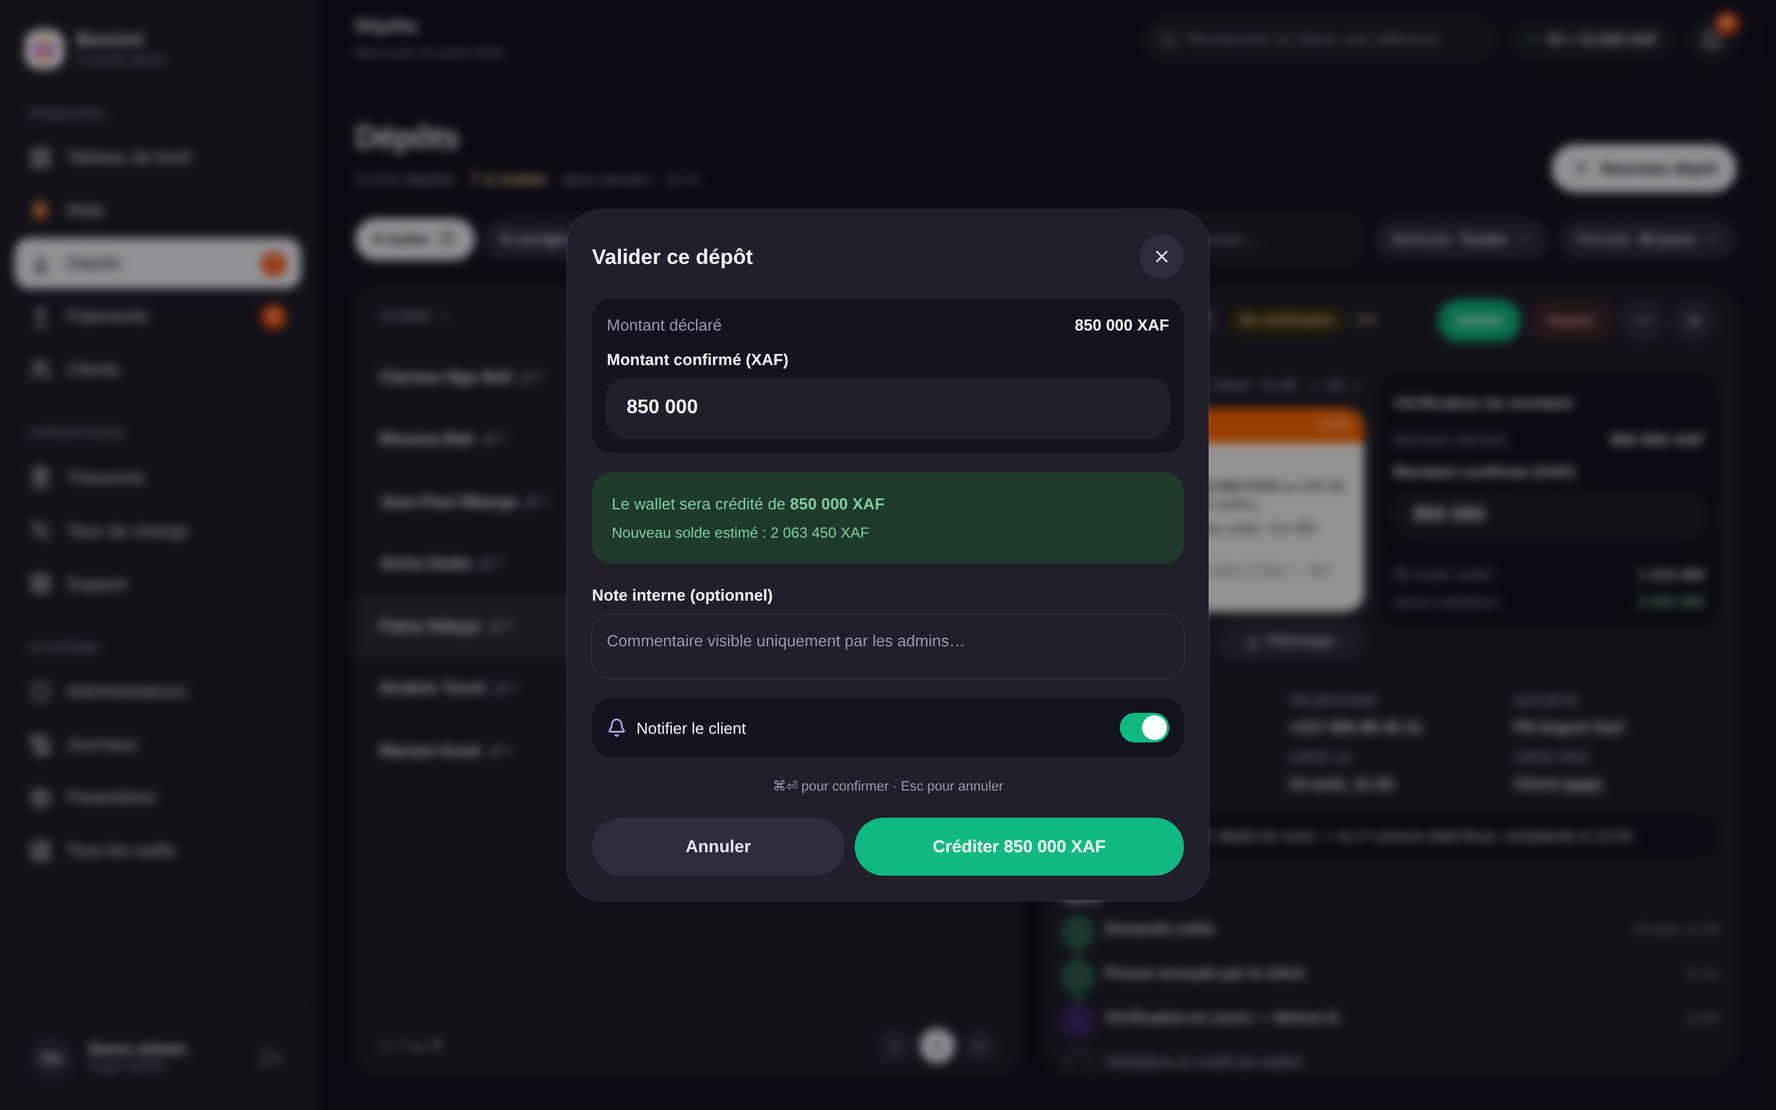
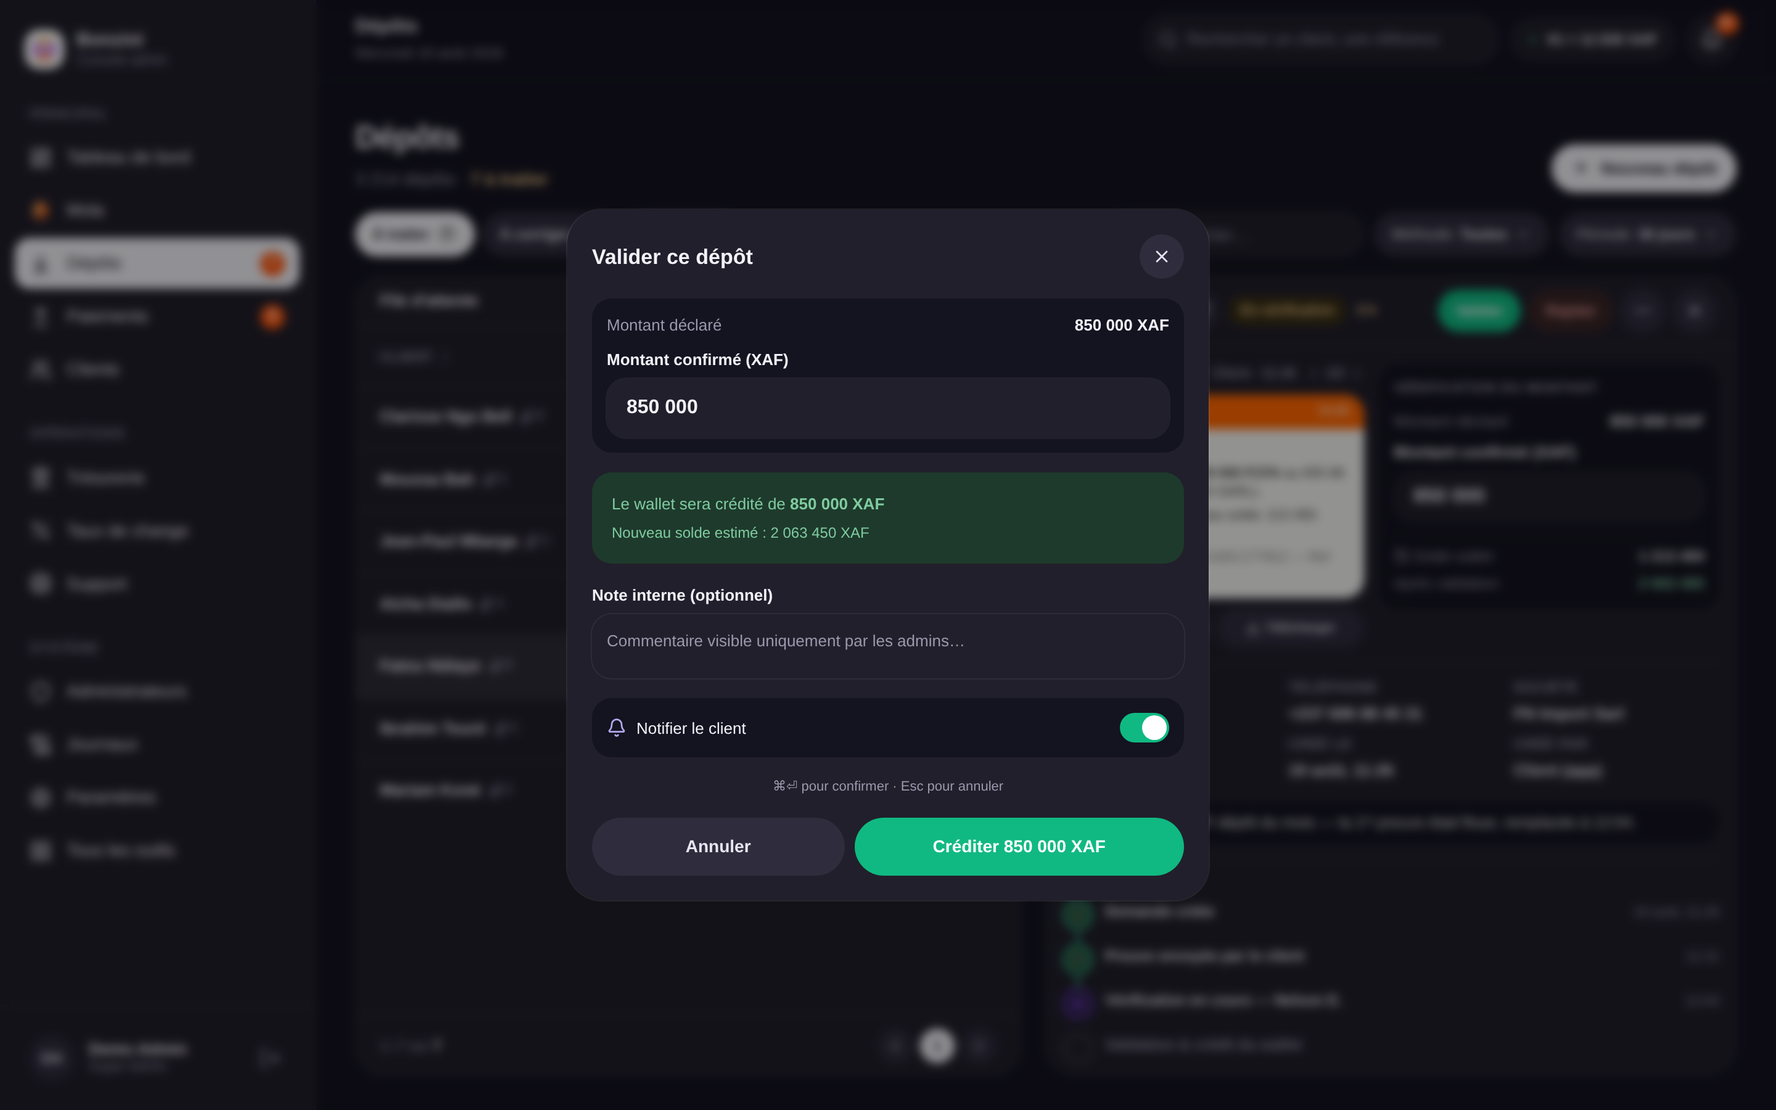
Remove drop shadows app-wide; enforce structure rules in redesign mockups
Founder decision: the diffuse shadow under every surface read as disorganised.
- SURFACE.shadow token now emits a hairline ring (flat surfaces, light+dark)
  — flips every kit consumer at once
- hardcoded shadows removed from desktop chrome (sidebar, menus,
  MasterDetailLayout), kit BottomSheet, FABs, toggles, login card, calendar
- foundation doc: elevation section replaced by borders-only rule + 5
  structure rules (one toolbar height, one card anatomy with header band,
  one section-label style, one spacing rhythm, one primary per surface)
- mockups V3: card header bands on tables, unified uppercase section labels,
  36px toolbar line, ring-delimited panels and dialogs

Claude-Session: https://claude.ai/code/session_019kCQrbrB6qBu75nMSyyPWR

diff --git a/src/__screenshot__/adminRedesign/deposits.tsx b/src/__screenshot__/adminRedesign/deposits.tsx
@@ -46,6 +46,8 @@ import {
   Chip,
   DropChip,
   SearchField,
+  CardHeader,
+  SecLabel,
   Th,
   Td,
   PaginationBar,
@@ -112,6 +114,10 @@ function DepositsTable({ compact, view = 'queue' }: { compact?: boolean; view?: 
   const rows = view === 'all' ? ALL : QUEUE;
   return (
     <Card className="flex min-h-0 flex-1 flex-col overflow-hidden p-0">
+      <CardHeader
+        title={view === 'all' ? 'Tous les dépôts' : "File d'attente"}
+        meta={view === 'all' ? 'Triés du plus récent au plus ancien' : 'Triée du plus ancien au plus récent'}
+      />
       <div className="min-h-0 flex-1 overflow-auto">
         <table className="w-full text-left">
           <thead className={cn('sticky top-0 z-10', SURFACE.card)}>
@@ -219,7 +225,7 @@ function WorkbenchTop({ compact, view = 'queue' }: { compact?: boolean; view?: '
         <div>
           <h2 className={cn('text-[26px] font-extrabold tracking-tight', TEXT.strong)}>Dépôts</h2>
           <p className={cn('mt-1 text-[14px]', TEXT.muted)}>
-            3 214 dépôts · <span className="font-bold text-[#B47A17] dark:text-[#E7C083]">7 à traiter</span> · plus ancien : 11 h
+            3 214 dépôts · <span className="font-bold text-[#B47A17] dark:text-[#E7C083]">7 à traiter</span>
           </p>
         </div>
         <button type="button" className={cn('inline-flex items-center gap-2 px-4 py-2.5 text-[13px] font-bold', PRIMARY_PILL)}>
@@ -302,7 +308,7 @@ export function DepositPanel() {
       className={cn(
         'flex w-[560px] shrink-0 flex-col overflow-hidden rounded-[24px]',
         SURFACE.card,
-        'shadow-[0_8px_30px_-12px_rgba(46,32,92,0.22)] ring-1 ring-black/[0.05] dark:shadow-none dark:ring-white/[0.06]',
+        'ring-1 ring-black/[0.06] dark:ring-white/[0.06]',
       )}
     >
       {/* En-tête épinglé : identité + LE verdict */}
@@ -322,12 +328,16 @@ export function DepositPanel() {
         {/* Zone de verdict : la preuve à côté des montants qu'elle doit prouver */}
         <div className="grid grid-cols-[244px_1fr] items-start gap-3">
           <div>
-            <div className="mb-2 flex items-center justify-between">
-              <span className={cn('text-[13px] font-bold', TEXT.strong)}>Preuves (2)</span>
-              <span className={cn('inline-flex items-center gap-1 text-[11px] font-semibold', TEXT.muted)}>
-                Client · 11:26 <ChevronLeft className="ml-1 h-3 w-3" /> 1/2 <ChevronRight className="h-3 w-3" />
-              </span>
-            </div>
+            <SecLabel
+              className="mb-2"
+              right={
+                <span className={cn('inline-flex items-center gap-1 text-[11px] font-semibold', TEXT.muted)}>
+                  Client · 11:26 <ChevronLeft className="ml-1 h-3 w-3" /> 1/2 <ChevronRight className="h-3 w-3" />
+                </span>
+              }
+            >
+              Preuves · 2
+            </SecLabel>
             <FakeProofSms amount="850 000" reference="BZ-DP-2026-0847" />
             <div className="mt-2 flex gap-1.5">
               <button type="button" className={cn('flex h-8 flex-1 items-center justify-center gap-1 rounded-lg text-[10px] font-semibold', SOFT_PILL)}>
@@ -340,7 +350,7 @@ export function DepositPanel() {
           </div>
 
           <div className={cn('rounded-2xl p-3', SURFACE.canvas)}>
-            <span className={cn('text-[13px] font-bold', TEXT.strong)}>Vérification du montant</span>
+            <SecLabel>Vérification du montant</SecLabel>
             <div className="mt-2 flex items-center justify-between text-[13px]">
               <span className={TEXT.muted}>Montant déclaré</span>
               <span className={cn('font-semibold tabular-nums', TEXT.strong)}>850 000 XAF</span>
@@ -381,7 +391,7 @@ export function DepositPanel() {
 
         {/* Suivi — ouvert, plus caché derrière un clic */}
         <div className="mt-3 border-t border-black/[0.06] pt-2.5 dark:border-white/[0.06]">
-          <span className={cn('mb-1.5 block text-[13px] font-bold', TEXT.strong)}>Suivi</span>
+          <SecLabel className="mb-1.5">Suivi</SecLabel>
           <TimelineStep state="done" label="Demande créée" meta="19 août, 11:26" />
           <TimelineStep state="done" label="Preuve envoyée par le client" meta="11:31" />
           <TimelineStep state="current" label="Vérification en cours — Nelson E." meta="12:04" />
@@ -575,10 +585,7 @@ export function DdCreate() {
           {/* Rail : coordonnées à dicter + récap + CTA */}
           <div className="space-y-4">
             <Card>
-              <div className="flex items-center justify-between">
-                <span className={cn('text-[13px] font-bold', TEXT.strong)}>Coordonnées à communiquer</span>
-                <MIcon family="ORANGE_MONEY" size={20} />
-              </div>
+              <SecLabel right={<MIcon family="ORANGE_MONEY" size={20} />}>Coordonnées à communiquer</SecLabel>
               <div className="mt-3 space-y-2">
                 <div className={cn('rounded-2xl p-3', SURFACE.canvas)}>
                   <div className={cn('text-[11px]', TEXT.muted)}>Code marchand</div>
@@ -605,7 +612,7 @@ export function DdCreate() {
             </Card>
 
             <Card>
-              <span className={cn('text-[13px] font-bold', TEXT.strong)}>Récapitulatif</span>
+              <SecLabel>Récapitulatif</SecLabel>
               <div className="mt-2.5 space-y-2 text-[13px]">
                 <div className="flex justify-between"><span className={TEXT.muted}>Client</span><span className={cn('font-semibold', TEXT.strong)}>Fatou Ndiaye</span></div>
                 <div className="flex justify-between"><span className={TEXT.muted}>Montant</span><span className={cn('font-bold tabular-nums', TEXT.strong)}>850 000 XAF</span></div>

diff --git a/src/__screenshot__/adminRedesign/payments.tsx b/src/__screenshot__/adminRedesign/payments.tsx
@@ -45,6 +45,8 @@ import {
   Chip,
   DropChip,
   SearchField,
+  CardHeader,
+  SecLabel,
   Th,
   Td,
   PaginationBar,
@@ -106,6 +108,10 @@ function PaymentsTable({ compact, view = 'queue' }: { compact?: boolean; view?: 
   const rows = view === 'all' ? ALL : QUEUE;
   return (
     <Card className="flex min-h-0 flex-1 flex-col overflow-hidden p-0">
+      <CardHeader
+        title={view === 'all' ? 'Tous les paiements' : "File d'attente"}
+        meta={view === 'all' ? 'Triés du plus récent au plus ancien' : 'Triée du plus ancien au plus récent'}
+      />
       <div className="min-h-0 flex-1 overflow-auto">
         <table className="w-full text-left">
           <thead className={cn('sticky top-0 z-10', SURFACE.card)}>
@@ -326,7 +332,7 @@ export function PaymentPanel() {
       className={cn(
         'flex w-[560px] shrink-0 flex-col overflow-hidden rounded-[24px]',
         SURFACE.card,
-        'shadow-[0_8px_30px_-12px_rgba(46,32,92,0.22)] ring-1 ring-black/[0.05] dark:shadow-none dark:ring-white/[0.06]',
+        'ring-1 ring-black/[0.06] dark:ring-white/[0.06]',
       )}
     >
       <div className="flex items-center gap-2 border-b border-black/[0.06] px-4 py-2.5 dark:border-white/[0.06]">
@@ -368,12 +374,12 @@ export function PaymentPanel() {
         {/* Zone de verdict : coordonnées à transcrire, au caractère près */}
         <div className="mt-3 grid grid-cols-[1fr_112px] items-start gap-3.5">
           <div>
-            <div className="mb-2 flex items-center justify-between">
-              <span className={cn('text-[13px] font-bold', TEXT.strong)}>
-                Bénéficiaire · <span style={{ color: '#1677FF' }}>Alipay</span>
-              </span>
-              <button type="button" className="text-[12px] font-semibold text-[#6B5BD2] dark:text-[#A99BF0]">Modifier</button>
-            </div>
+            <SecLabel
+              className="mb-2"
+              right={<button type="button" className="text-[12px] font-semibold text-[#6B5BD2] dark:text-[#A99BF0]">Modifier</button>}
+            >
+              Bénéficiaire · <span style={{ color: '#1677FF' }}>Alipay</span>
+            </SecLabel>
             <div className="space-y-2">
               <CopyRow k="Nom" v="Zhang Wei 张伟" />
               <CopyRow k="Alipay ID" v="zw88@aliyun.com" mono accent="#1677FF" />
@@ -410,7 +416,7 @@ export function PaymentPanel() {
 
         {/* Suivi */}
         <div className="mt-2.5 border-t border-black/[0.06] pt-2.5 dark:border-white/[0.06]">
-          <span className={cn('mb-1.5 block text-[13px] font-bold', TEXT.strong)}>Suivi</span>
+          <SecLabel className="mb-1.5">Suivi</SecLabel>
           <PTimelineStep state="done" label="Paiement créé — wallet débité" meta="11:41" />
           <PTimelineStep state="done" label="Bénéficiaire complet" meta="11:41" />
           <PTimelineStep state="current" label="Prêt à payer" />
@@ -528,10 +534,9 @@ export function DpCreate() {
 
               <div className="mt-4 grid grid-cols-2 gap-4">
                 <div>
-                  <div className="flex items-center justify-between">
-                    <span className={cn('text-[13px] font-semibold', TEXT.strong)}>Carnet de Fatou · Alipay (3)</span>
-                    <button type="button" className="text-[12px] font-bold" style={{ color: VIOLET }}>+ Nouveau</button>
-                  </div>
+                  <SecLabel right={<button type="button" className="text-[12px] font-bold" style={{ color: VIOLET }}>+ Nouveau</button>}>
+                    Carnet de Fatou · Alipay (3)
+                  </SecLabel>
                   <div className="mt-2 space-y-2">
                     {[
                       { n: 'Zhang Wei 张伟', m: 'zw88@aliyun.com', sel: true },
@@ -578,7 +583,7 @@ export function DpCreate() {
 
           {/* Rail : récap vivant */}
           <Card>
-            <span className={cn('text-[13px] font-bold', TEXT.strong)}>Récapitulatif</span>
+            <SecLabel>Récapitulatif</SecLabel>
             <div className={cn('mt-3 rounded-2xl py-4 text-center', SURFACE.canvas)}>
               <Amount value="¥14 380" size="xl" />
               <div className={cn('mt-1 text-[12px] tabular-nums', TEXT.muted)}>1 250 000 XAF · Alipay</div>

diff --git a/src/__screenshot__/adminRedesign/kit.tsx b/src/__screenshot__/adminRedesign/kit.tsx
@@ -75,12 +75,12 @@ export function Age({ abs, rel, level, relOnly }: { abs: string; rel: string; le
 
 /* ── Puce-filtre à compteur — copie du rendu STATUS_CHIPS des écrans réels ─ */
 
-export function Chip({ label, count, active, onDark }: { label: React.ReactNode; count?: number | string; active?: boolean; onDark?: boolean }) {
+export function Chip({ label, count, active }: { label: React.ReactNode; count?: number | string; active?: boolean }) {
   return (
     <button
       type="button"
       className={cn(
-        'flex items-center gap-1.5 rounded-full px-3.5 py-2 text-[12px] font-semibold transition-colors',
+        'flex h-9 items-center gap-1.5 rounded-full px-3.5 text-[12px] font-semibold transition-colors',
         active ? PRIMARY_PILL : SOFT_PILL,
       )}
     >
@@ -102,7 +102,7 @@ export function Chip({ label, count, active, onDark }: { label: React.ReactNode;
 /** Puce façon menu déroulant (Méthode / Période) — même langage. */
 export function DropChip({ label, value }: { label: string; value: string }) {
   return (
-    <button type="button" className={cn('flex items-center gap-1.5 rounded-full px-3.5 py-2 text-[12px] font-semibold', SOFT_PILL)}>
+    <button type="button" className={cn('flex h-9 items-center gap-1.5 rounded-full px-3.5 text-[12px] font-semibold', SOFT_PILL)}>
       <span className="opacity-70">{label}</span>
       <span className="font-bold">{value}</span>
       <ChevronDown className="h-3.5 w-3.5 opacity-70" />
@@ -115,8 +115,29 @@ export function DropChip({ label, value }: { label: string; value: string }) {
 export function SearchField({ placeholder, className }: { placeholder: string; className?: string }) {
   return (
     <div className={cn('relative', className)}>
-      <Search className={cn('pointer-events-none absolute left-4 top-1/2 z-10 h-4 w-4 -translate-y-1/2', TEXT.muted)} />
-      <TextInput placeholder={placeholder} readOnly className="h-11 pl-10 text-[14px]" />
+      <Search className={cn('pointer-events-none absolute left-3.5 top-1/2 z-10 h-4 w-4 -translate-y-1/2', TEXT.muted)} />
+      <TextInput placeholder={placeholder} readOnly className="h-9 rounded-full pl-9 text-[13px]" />
+    </div>
+  );
+}
+
+/** En-tête de carte — l'anatomie unique de toutes les cartes de contenu :
+ *  titre 13px gras à gauche, méta 12px sourde à droite, liseré dessous. */
+export function CardHeader({ title, meta }: { title: React.ReactNode; meta?: React.ReactNode }) {
+  return (
+    <div className="flex items-center justify-between gap-3 border-b border-black/[0.06] px-5 py-2.5 dark:border-white/[0.06]">
+      <span className={cn('text-[13px] font-bold', TEXT.strong)}>{title}</span>
+      {meta && <span className={cn('text-[12px] tabular-nums', TEXT.muted)}>{meta}</span>}
+    </div>
+  );
+}
+
+/** Étiquette de section — LE style unique des sections de panneau/formulaire. */
+export function SecLabel({ children, right, className }: { children: React.ReactNode; right?: React.ReactNode; className?: string }) {
+  return (
+    <div className={cn('flex items-center justify-between gap-3', className)}>
+      <span className={cn('text-[11px] font-bold uppercase tracking-wider', TEXT.muted)}>{children}</span>
+      {right}
     </div>
   );
 }
@@ -208,7 +229,7 @@ export function Dialog({ title, children, footer, width = 520 }: { title: React.
   return (
     <div className="absolute inset-0 z-[60] flex items-center justify-center bg-black/40 backdrop-blur-sm">
       <div
-        className={cn('overflow-hidden rounded-[28px] p-5', SURFACE.card, 'shadow-[0_24px_60px_-24px_rgba(46,32,92,0.45)] dark:shadow-none dark:ring-1 dark:ring-white/[0.08]')}
+        className={cn('overflow-hidden rounded-[28px] p-5', SURFACE.card, 'ring-1 ring-black/[0.08] dark:ring-white/[0.08]')}
         style={{ width }}
         role="dialog"
         aria-modal="true"

diff --git a/src/desktop/components/layout/DesktopSidebar.tsx b/src/desktop/components/layout/DesktopSidebar.tsx
@@ -33,7 +33,7 @@ export function DesktopSidebar() {
       className={cn(
         'fixed inset-y-0 left-0 z-20 flex w-64 flex-col',
         SURFACE.card,
-        'shadow-[1px_0_0_rgba(46,32,92,0.06)] dark:shadow-none dark:ring-1 dark:ring-white/[0.06]',
+        'border-r border-black/[0.06] dark:border-white/[0.06]',
       )}
     >
       {/* Brand */}
@@ -67,10 +67,7 @@ export function DesktopSidebar() {
                       cn(
                         'mb-0.5 flex items-center gap-3 rounded-xl px-3 py-2.5 text-[14px] font-medium outline-none transition focus-visible:ring-2 focus-visible:ring-inset focus-visible:ring-[#C9C2F0] dark:focus-visible:ring-[#4A4660]',
                         isActive
-                          ? cn(
-                              'bg-[#1C1B22] text-white dark:bg-[#F2F1F7] dark:text-[#1B1A24]',
-                              'shadow-[0_8px_30px_-12px_rgba(46,32,92,0.25)]',
-                            )
+                          ? 'bg-[#1C1B22] text-white dark:bg-[#F2F1F7] dark:text-[#1B1A24]'
                           : cn(TEXT.strong, 'hover:bg-[#EDEAFA]/70 dark:hover:bg-white/[0.06]'),
                       )
                     }

diff --git a/src/mobile/designKit/tokens.ts b/src/mobile/designKit/tokens.ts
@@ -15,8 +15,11 @@ export const SURFACE = {
   canvas: 'bg-[#ECEAF7] dark:bg-[#141320]',
   /** Primary elevated surface. */
   card: 'bg-white dark:bg-[#211F2B]',
-  /** Soft diffuse shadow (replaces hard borders). Dark mode: ring instead. */
-  shadow: 'shadow-[0_8px_30px_-12px_rgba(46,32,92,0.18)] dark:shadow-none dark:ring-1 dark:ring-white/[0.06]',
+  /** Surface delineation: a crisp hairline ring — flat, no drop shadows.
+   *  (Was a soft diffuse shadow; removed app-wide on the founder's decision —
+   *  the diffuse blur under every surface read as disorganised. Borders give
+   *  the same separation with more structure.) */
+  shadow: 'ring-1 ring-black/[0.06] dark:ring-white/[0.06]',
   /** Neutral round holder for icons/initials. */
   holder: 'bg-[#EDEAFA] text-[#2C2740] dark:bg-[#2F2C3D] dark:text-[#E7E5F0]',
 } as const;

diff --git a/src/mobile/screens/payments/MobileNewPayment.tsx b/src/mobile/screens/payments/MobileNewPayment.tsx
@@ -747,7 +747,7 @@ export function MobileNewPayment({ desktop = false }: { desktop?: boolean } = {}
                   style={{ background: useCustomRate ? VIOLET : 'rgba(0,0,0,0.18)' }}
                 >
                   <span
-                    className="absolute top-0.5 h-[22px] w-[22px] rounded-full bg-white shadow-[0_1px_4px_rgba(0,0,0,.18)] transition-all"
+                    className="absolute top-0.5 h-[22px] w-[22px] rounded-full bg-white ring-1 ring-black/[0.10] transition-all"
                     style={{ left: useCustomRate ? 20 : 2 }}
                   />
                 </button>

diff --git a/src/mobile/screens/payments/MobilePaymentsScreen.tsx b/src/mobile/screens/payments/MobilePaymentsScreen.tsx
@@ -251,7 +251,7 @@ export function MobilePaymentsScreen() {
             <button
               onClick={() => navigate('/m/payments/new')}
               aria-label="Nouveau paiement"
-              className="flex h-10 w-10 items-center justify-center rounded-full bg-[#8B5CF6] text-white shadow-[0_6px_16px_-4px_rgba(139,92,246,0.55)] transition active:scale-95"
+              className="flex h-10 w-10 items-center justify-center rounded-full bg-[#8B5CF6] text-white transition active:scale-95"
             >
               <Plus className="h-5 w-5" strokeWidth={2.6} />
             </button>

diff --git a/src/mobile/screens/deposits/MobileDepositsScreenV2.tsx b/src/mobile/screens/deposits/MobileDepositsScreenV2.tsx
@@ -213,7 +213,7 @@ export function MobileDepositsScreenV2() {
           <button
             onClick={() => navigate('/m/deposits/new')}
             aria-label="Nouveau dépôt"
-            className="flex h-10 w-10 items-center justify-center rounded-full bg-[#10B981] text-white shadow-[0_6px_16px_-4px_rgba(16,185,129,0.55)] transition active:scale-95"
+            className="flex h-10 w-10 items-center justify-center rounded-full bg-[#10B981] text-white transition active:scale-95"
           >
             <Plus className="h-5 w-5" strokeWidth={2.6} />
           </button>

diff --git a/src/desktop/components/layout/DesktopNotificationsMenu.tsx b/src/desktop/components/layout/DesktopNotificationsMenu.tsx
@@ -71,7 +71,7 @@ export function DesktopNotificationsMenu() {
             className={cn(
               'absolute right-0 top-full z-50 mt-2 w-[384px] overflow-hidden rounded-[20px]',
               SURFACE.card,
-              'shadow-[0_18px_50px_-12px_rgba(46,32,92,0.35)] ring-1 ring-black/[0.06] dark:ring-white/[0.08]',
+              'ring-1 ring-black/[0.10] dark:ring-white/[0.10]',
             )}
           >
             <header className="flex items-center justify-between gap-2 border-b border-black/[0.05] px-4 py-3 dark:border-white/[0.06]">

diff --git a/src/mobile/screens/assistant/MobileAssistantScreen.tsx b/src/mobile/screens/assistant/MobileAssistantScreen.tsx
@@ -414,7 +414,7 @@ export function MobileAssistantScreen({ desktop = false }: { desktop?: boolean }
       {isEmpty ? (
         <div className="flex flex-col items-center pt-10 text-center">
           <MolaMascot
-            className="h-24 w-24 drop-shadow-[0_10px_22px_rgba(251,87,19,0.28)]"
+            className="h-24 w-24"
             fallback={
               <div className={cn('flex h-16 w-16 items-center justify-center rounded-full text-[#2C2740] dark:text-[#E7E5F0]', CARD, SOFT)}>
                 <Bot className="h-8 w-8" />

diff --git a/src/mobile/components/OperationDateCard.tsx b/src/mobile/components/OperationDateCard.tsx
@@ -67,7 +67,7 @@ export function OperationDateCard({ enabled, value, onToggle, onChange, accent, 
           style={{ background: enabled ? accent : 'rgba(0,0,0,0.18)' }}
         >
           <span
-            className="absolute top-0.5 h-[22px] w-[22px] rounded-full bg-white shadow-[0_1px_4px_rgba(0,0,0,.18)] transition-all"
+            className="absolute top-0.5 h-[22px] w-[22px] rounded-full bg-white ring-1 ring-black/[0.10] transition-all"
             style={{ left: enabled ? 20 : 2 }}
           />
         </button>

diff --git a/src/mobile/screens/auth/MobileLoginScreen.tsx b/src/mobile/screens/auth/MobileLoginScreen.tsx
@@ -81,7 +81,7 @@ function MethodRow({
         'w-full flex items-center gap-3.5 rounded-2xl px-4 py-4 text-left transition active:scale-[0.99] disabled:opacity-50',
         primary
           ? 'bg-[#1C1B22] text-white dark:bg-[#F2F1F7] dark:text-[#1B1A24]'
-          : 'bg-white text-[#1B1A24] shadow-[0_4px_18px_-10px_rgba(46,32,92,0.35)] dark:bg-[#211F2B] dark:text-[#F2F1F7]',
+          : 'bg-white text-[#1B1A24] ring-1 ring-black/[0.08] dark:bg-[#211F2B] dark:text-[#F2F1F7]',
       )}
     >
       <span
